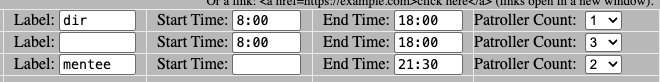
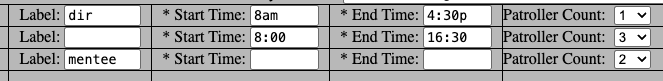
cleanup image and text on EditShiftTemplates

diff --git a/src/main/resources/templates/fragments/notices.html b/src/main/resources/templates/fragments/notices.html
@@ -26,18 +26,59 @@
     * - required fields to enable syncing with patrollers calendar.
 
     <!-- Two pictures of the same three shifts: what a director types, then what the calendar
-         draws from it. These carry the explanation now that the prose has gone - the middle row
-         has a time and no label, the others have both or a label only. -->
-    <div style="margin-top:8px; display:flex; align-items:center; gap:12px; flex-wrap:wrap;">
-        <b style="white-space:nowrap;">e.g.</b>
-        <img th:src="@{/images/labelSplitFields.png}" width="660" height="82"
-             style="max-width:100%; height:auto;"
-             alt="The shift editor: Label 'dir' starting 8:00, a row with only a start time of
-                  8:00, and Label 'mentee' with no start time, each with a patroller count">
-        <img th:src="@{/images/labelSplitExample.png}" width="233" height="83"
-             style="max-width:100%; height:auto;"
-             alt="The same three shifts on the calendar: dir, 8:00 and mentee">
+         draws from it. A bare "e.g." left the reader to work out that the two were the same three
+         shifts, which is the whole point of showing them - so each is captioned, an arrow runs
+         between them, and a line underneath reads the example out.
+
+         The middle row has a time and no label, the others have both or a label only. -->
+    <p style="margin:8px 0 6px 0;">
+        <b>For example</b> &mdash; these settings (left) are what the calendar shows (right):
+    </p>
+    <div style="display:flex; align-items:flex-end; gap:10px; flex-wrap:wrap;">
+        <figure style="margin:0; text-align:center;">
+            <!-- The file is 663px wide; drawn at 600 so it, the arrow and the calendar picture
+                 still sit side by side inside the notice. The flex row wraps rather than
+                 overflowing, so the cost of being a little too wide is the two pictures ending up
+                 one above the other, which is the one arrangement this example must not have.
+                 width/height stay the file's own size, so the browser reserves the right shape
+                 before the image loads. -->
+            <img th:src="@{/images/labelSplitFields.png}" width="663" height="81"
+                 style="width:600px; max-width:100%; height:auto; border:1px solid #d9d9d9;"
+                 alt="Sample shift editor rows: Label 'dir' from 8am to 4:30p; a row with no label,
+                      from 8:00 to 16:30; and Label 'mentee' with no start or end time - each with
+                      a patroller count">
+            <figcaption style="margin-top:4px; color:#666666; font-size:11pt;">
+                What you set on this page
+            </figcaption>
+        </figure>
+
+        <div aria-hidden="true"
+             style="font-size:20px; line-height:1; color:#cc0000; padding-bottom:22px;">&rarr;</div>
+
+        <figure style="margin:0; text-align:center;">
+            <img th:src="@{/images/labelSplitExample.png}" width="233" height="83"
+                 style="max-width:100%; height:auto; border:1px solid #d9d9d9;"
+                 alt="The same three sample shifts as the calendar draws them: dir, 8:00 and mentee">
+            <figcaption style="margin-top:4px; color:#666666; font-size:11pt;">
+                How that day looks on the calendar
+            </figcaption>
+        </figure>
     </div>
+    <p style="margin:6px 0 0 0; color:#555555;">
+        Reading the example: the first shift has a <b>Label</b> as well as its times, so the
+        calendar shows the label (<i>dir</i>). The second has times and no label, so it shows the
+        start time (<i>8:00</i>). The third has a label and no times at all, so it shows
+        <i>mentee</i>.
+        <br>
+        <!-- The point the picture cannot make on its own: the third row looks perfectly fine on
+             the calendar and is the one that silently drops out of the feed. The reassurance
+             matters too - a director's first worry is that adding times costs them their label,
+             and getDisplayStartString shows the label whenever there is one. -->
+        <b style="color:#cc0000;">That third shift will not sync to a personal calendar</b> &mdash;
+        a shift needs both a start and an end time before it can be sent, so it is simply left out.
+        Give it times and it syncs like the others: <b>the calendar still shows <i>mentee</i></b>,
+        because a label is always what appears when there is one.
+    </p>
 </div>
 
 </body>
